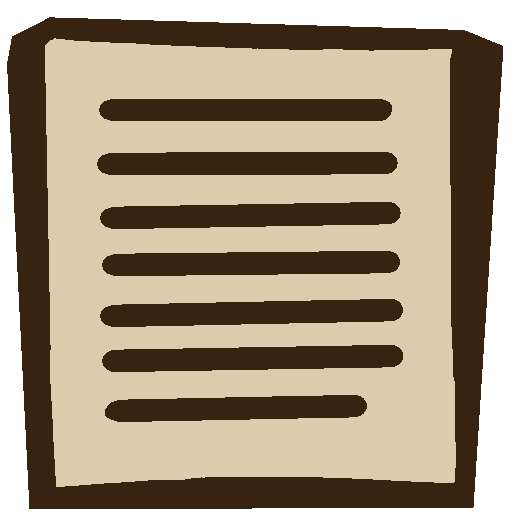
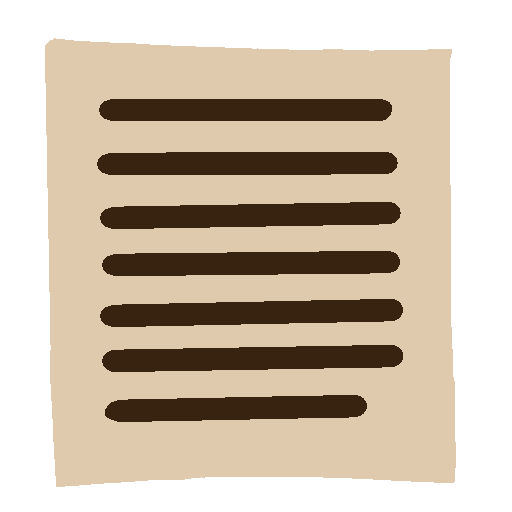
Add nauseous objects

Changed region(s): [[0.0, 0.0312, 1.0, 1.0]]

diff --git a/src/main.cpp b/src/main.cpp
@@ -66,6 +66,23 @@ void handle_events(GameMode &gameMode, bool fullscreen, InputResult &inputResult
   }
 }
 
+void init_game_object(GameObject &obj, GameObjectType type) {
+  obj.width = 128;
+  obj.height = 128;
+  obj.x = (GLfloat)((rand() % (KARTTA_LEVEYS - (int)obj.width)) - (KARTTA_LEVEYS / 2) +
+                    (int)(obj.width / 2));
+  obj.y = (GLfloat)((rand() % (KARTTA_KORKEUS - (int)obj.height - (KARTTA_KORKEUS / 4))) +
+                    (KARTTA_KORKEUS / 8) + (int)(obj.height / 2));
+  obj.vx =
+      ((((GLfloat)(rand() % 1000)) / 1000.0f) * 1.5f + 0.5f) * 0.3f * (rand() % 2 == 0 ? 1 : -1);
+  obj.ymid = obj.y;
+  obj.amplitude = 200;
+  obj.frequency = 1.5;
+  obj.phase = (((GLfloat)(rand() % 1000)) / 1000.0f) * 3.141 * 2;
+  obj.collected = false;
+  obj.type = type;
+}
+
 void forest_init(GameStateForest &gameStateForest) {
   Sartre &sartre = gameStateForest.sartre;
   sartre.width = 256;
@@ -76,28 +93,16 @@ void forest_init(GameStateForest &gameStateForest) {
   sartre.animSize = 2;
   sartre.jump = 0;
 
-  size_t numObjects = 5;
-  gameStateForest.pages.resize(numObjects);
-  gameStateForest.collectedPages = 0;       // Initialize collected pages
-  gameStateForest.totalPages = numObjects;  // Initialize total pages
+  gameStateForest.objects.resize(8);
+  gameStateForest.pages_collected = 0;
+  gameStateForest.nausea_hits = 0;
 
-  for (auto &obj : gameStateForest.pages) {
-    obj.width = 128;
-    obj.height = 128;
+  for (int i = 0; i < 3; ++i) {
+    init_game_object(gameStateForest.objects[i], PAGE);
+  }
 
-    obj.x = (GLfloat)((rand() % (KARTTA_LEVEYS - (int)obj.width)) - (KARTTA_LEVEYS / 2) +
-                      (int)(obj.width / 2));
-    obj.y = (GLfloat)((rand() % (KARTTA_KORKEUS - (int)obj.height - (KARTTA_KORKEUS / 4))) +
-                      (KARTTA_KORKEUS / 8) + (int)(obj.height / 2));
-
-    obj.vx = 0.3;
-
-    obj.ymid = obj.y;
-    obj.amplitude = 200;
-    obj.frequency = 1.5;
-    obj.phase = (((GLfloat)(rand() % 1000)) / 1000.0f) * 3.141 * 2;
-
-    obj.collected = false;  // Initialize as not collected
+  for (int i = 3; i < 8; ++i) {
+    init_game_object(gameStateForest.objects[i], (rand() % 2 == 0) ? CHESTNUT : PIPE);
   }
 }
 
@@ -144,13 +149,23 @@ void forest_draw(GameStateForest &gameStateForest, Textures &textures, RenderCon
   glBufferSubData(GL_ARRAY_BUFFER, 0, sizeof(sartreVertices), sartreVertices);
   glDrawArrays(GL_TRIANGLE_FAN, 0, 4);
 
-  for (auto &obj : gameStateForest.pages) {
-    // Skip drawing if collected
+  for (auto &obj : gameStateForest.objects) {
     if (obj.collected) {
       continue;
     }
 
-    GLuint objTexture = textures.forestPage;
+    GLuint objTexture;
+    switch (obj.type) {
+      case PAGE:
+        objTexture = textures.forestPage;
+        break;
+      case CHESTNUT:
+        objTexture = textures.forestChestnut;
+        break;
+      case PIPE:
+        objTexture = textures.forestPipe;
+        break;
+    }
 
     // Bind object texture
     glBindTexture(GL_TEXTURE_2D, objTexture);
@@ -203,11 +218,59 @@ void forest_draw(GameStateForest &gameStateForest, Textures &textures, RenderCon
   glUniformMatrix4fv(textProjectionLoc, 1, GL_FALSE, textOrthoMatrix);
 
   // Prepare text and color
-  std::string pageText = "Pages: " + std::to_string(gameStateForest.collectedPages) + " / " +
-                         std::to_string(gameStateForest.totalPages);
+  std::string pageText = "Pages: " + std::to_string(gameStateForest.pages_collected);
+  std::string nauseaText = "Nausea: " + std::to_string(gameStateForest.nausea_hits);
   SDL_Color white = {255, 255, 255, 255};
   renderText(context.font, pageText.c_str(), white, context.textShaderProgram, context.textVAO,
              context.textVBO, 50.0f, KARTTA_KORKEUS - 50.0f);  // Position near top-left
+  renderText(context.font, nauseaText.c_str(), white, context.textShaderProgram, context.textVAO,
+             context.textVBO, 50.0f, KARTTA_KORKEUS - 100.0f);  // Position near top-left
+}
+
+void update_game_object(GameObject &obj, Sartre &sartre, GameStateForest &gameStateForest,
+                        Uint32 totalElapsed) {
+  if (!obj.collected) {
+    // Change position for sinelike trajectory
+    obj.x = obj.x + obj.vx;
+    obj.y =
+        obj.ymid + obj.amplitude * sin(obj.frequency * ((float)totalElapsed / 1000 + obj.phase));
+
+    // If goes outside the window, come out from the other direction
+    if ((obj.x > KARTTA_LEVEYS / 2 + obj.width) && (obj.vx > 0)) {
+      obj.x = -(obj.width / 2) - KARTTA_LEVEYS / 2;
+    } else if ((obj.x < -KARTTA_LEVEYS / 2 - obj.width) && (obj.vx < 0)) {
+      obj.x = KARTTA_LEVEYS / 2 + obj.width / 2;
+    }
+
+    // Check for collision with Sartre (AABB collision detection)
+    bool collisionX = sartre.x + sartre.width / 2 >= obj.x - obj.width / 2 &&
+                      obj.x + obj.width / 2 >= sartre.x - sartre.width / 2;
+    bool collisionY = sartre.y + sartre.height / 2 >= obj.y - obj.height / 2 &&
+                      obj.y + obj.height / 2 >= sartre.y - sartre.height / 2;
+
+    if (collisionX && collisionY) {
+      obj.collected = true;
+      if (obj.type == PAGE) {
+        gameStateForest.pages_collected++;
+      } else {
+        gameStateForest.nausea_hits++;
+      }
+
+      // Respawn the object at a new random location
+      obj.x = (GLfloat)((rand() % (KARTTA_LEVEYS - (int)obj.width)) - (KARTTA_LEVEYS / 2) +
+                        (int)(obj.width / 2));
+      obj.y = (GLfloat)((rand() % (KARTTA_KORKEUS - (int)obj.height - (KARTTA_KORKEUS / 4))) +
+                        (KARTTA_KORKEUS / 8) + (int)(obj.height / 2));
+      obj.vx = ((((GLfloat)(rand() % 1000)) / 1000.0f) * 1.5f + 0.5f) * 0.3f *
+               (rand() % 2 == 0 ? 1 : -1);
+      obj.ymid = obj.y;
+      obj.phase = (((GLfloat)(rand() % 1000)) / 1000.0f) * 3.141 * 2;
+      if (obj.type != PAGE) {
+        obj.type = (rand() % 2 == 0) ? CHESTNUT : PIPE;
+      }
+      obj.collected = false;
+    }
+  }
 }
 
 void forest_update(GameStateForest &gameStateForest, Uint32 totalElapsed, float deltaTime,
@@ -216,34 +279,8 @@ void forest_update(GameStateForest &gameStateForest, Uint32 totalElapsed, float 
 
   const Uint8 *keystate = SDL_GetKeyboardState(NULL);
 
-  // Update page objects
-  for (auto &obj : gameStateForest.pages) {
-    // Only update and check collision for visible pages
-    if (!obj.collected) {
-      // Change position for sinelike trajectory
-      obj.x = obj.x + obj.vx;
-      obj.y =
-          obj.ymid + obj.amplitude * sin(obj.frequency * ((float)totalElapsed / 1000 + obj.phase));
-
-      // If goes outside the window, come out from the other direction
-      if ((obj.x > KARTTA_LEVEYS / 2 + obj.width) && (obj.vx > 0)) {
-        obj.x = -(obj.width / 2) - KARTTA_LEVEYS / 2;
-      } else if ((obj.x < -KARTTA_LEVEYS / 2 - obj.width) && (obj.vx < 0)) {
-        obj.x = KARTTA_LEVEYS / 2 + obj.width / 2;
-      }
-
-      // Check for collision with Sartre (AABB collision detection)
-      bool collisionX = sartre.x + sartre.width / 2 >= obj.x - obj.width / 2 &&
-                        obj.x + obj.width / 2 >= sartre.x - sartre.width / 2;
-      bool collisionY = sartre.y + sartre.height / 2 >= obj.y - obj.height / 2 &&
-                        obj.y + obj.height / 2 >= sartre.y - sartre.height / 2;
-
-      if (collisionX && collisionY) {
-        obj.collected = true;
-        gameStateForest.collectedPages++;
-        // Optional: Add sound effect or visual feedback here
-      }
-    }
+  for (auto &obj : gameStateForest.objects) {
+    update_game_object(obj, sartre, gameStateForest, totalElapsed);
   }
 
   // Update sartre animation
@@ -294,7 +331,7 @@ void forest_update(GameStateForest &gameStateForest, Uint32 totalElapsed, float 
   }
 
   // Transition to RESULTS state if all pages have been collected.
-  if (gameStateForest.collectedPages == gameStateForest.totalPages) {
+  if (gameStateForest.nausea_hits >= 3) {
     inputResult.transition = true;
     inputResult.transitionTo = RESULTS;
   }

diff --git a/src/utils.cpp b/src/utils.cpp
@@ -106,6 +106,46 @@ void create_textures(Textures& textures, std::string dataPath) {
   SDL_FreeSurface(formattedPageSurface);
   SDL_FreeSurface(forestPageImage);
 
+  // Chestnut
+  SDL_Surface* forestChestnutImage;
+  forestChestnutImage = IMG_Load((dataPath + "images/objects/chestnut.png").c_str());
+  if (!forestChestnutImage) {
+    printf("Error loading image: %s\n", SDL_GetError());
+    exit(1);
+  }
+  glGenTextures(1, &textures.forestChestnut);
+  SDL_Surface* formattedChestnutSurface = format_sdl_surface(forestChestnutImage);
+  if (!formattedChestnutSurface) {
+    exit(1);
+  }
+  glBindTexture(GL_TEXTURE_2D, textures.forestChestnut);
+  glTexParameteri(GL_TEXTURE_2D, GL_TEXTURE_MIN_FILTER, GL_LINEAR);
+  glTexParameteri(GL_TEXTURE_2D, GL_TEXTURE_MAG_FILTER, GL_LINEAR);
+  glTexImage2D(GL_TEXTURE_2D, 0, GL_RGBA, formattedChestnutSurface->w, formattedChestnutSurface->h,
+               0, GL_RGBA, GL_UNSIGNED_BYTE, formattedChestnutSurface->pixels);
+  SDL_FreeSurface(formattedChestnutSurface);
+  SDL_FreeSurface(forestChestnutImage);
+
+  // Pipe
+  SDL_Surface* forestPipeImage;
+  forestPipeImage = IMG_Load((dataPath + "images/objects/pipe.png").c_str());
+  if (!forestPipeImage) {
+    printf("Error loading image: %s\n", SDL_GetError());
+    exit(1);
+  }
+  glGenTextures(1, &textures.forestPipe);
+  SDL_Surface* formattedPipeSurface = format_sdl_surface(forestPipeImage);
+  if (!formattedPipeSurface) {
+    exit(1);
+  }
+  glBindTexture(GL_TEXTURE_2D, textures.forestPipe);
+  glTexParameteri(GL_TEXTURE_2D, GL_TEXTURE_MIN_FILTER, GL_LINEAR);
+  glTexParameteri(GL_TEXTURE_2D, GL_TEXTURE_MAG_FILTER, GL_LINEAR);
+  glTexImage2D(GL_TEXTURE_2D, 0, GL_RGBA, formattedPipeSurface->w, formattedPipeSurface->h, 0,
+               GL_RGBA, GL_UNSIGNED_BYTE, formattedPipeSurface->pixels);
+  SDL_FreeSurface(formattedPipeSurface);
+  SDL_FreeSurface(forestPipeImage);
+
   // Background
   SDL_Surface* forestTaustaImage;
   forestTaustaImage = IMG_Load((dataPath + "images/lehto.png").c_str());
@@ -142,6 +182,8 @@ void free_textures(Textures& textures) {
     glDeleteTextures(1, &textures.forestSartre[a]);
   }
   glDeleteTextures(1, &textures.forestPage);
+  glDeleteTextures(1, &textures.forestChestnut);
+  glDeleteTextures(1, &textures.forestPipe);
   glDeleteTextures(1, &textures.forestTausta[0]);
 }
 

diff --git a/src/types.h b/src/types.h
@@ -11,7 +11,9 @@
 
 enum GameMode { MENU, FOREST, RESULTS, EXIT };
 
-struct PageObject {
+enum GameObjectType { PAGE, CHESTNUT, PIPE };
+
+struct GameObject {
   GLfloat x;
   GLfloat y;
   GLfloat vx;
@@ -21,7 +23,8 @@ struct PageObject {
   GLfloat phase;
   GLfloat amplitude;
   GLfloat frequency;
-  bool collected;  // Added flag
+  bool collected;
+  GameObjectType type;
 };
 
 struct Sartre {
@@ -37,9 +40,9 @@ struct Sartre {
 
 struct GameStateForest {
   Sartre sartre;
-  std::vector<PageObject> pages;
-  int collectedPages;
-  int totalPages;
+  std::vector<GameObject> objects;
+  int pages_collected;
+  int nausea_hits;
 };
 
 struct GameStateMenu {};
@@ -54,6 +57,8 @@ struct InputResult {
 struct Textures {
   GLuint forestSartre[2];
   GLuint forestPage;
+  GLuint forestChestnut;
+  GLuint forestPipe;
   GLuint forestTausta[1];
 };
 
